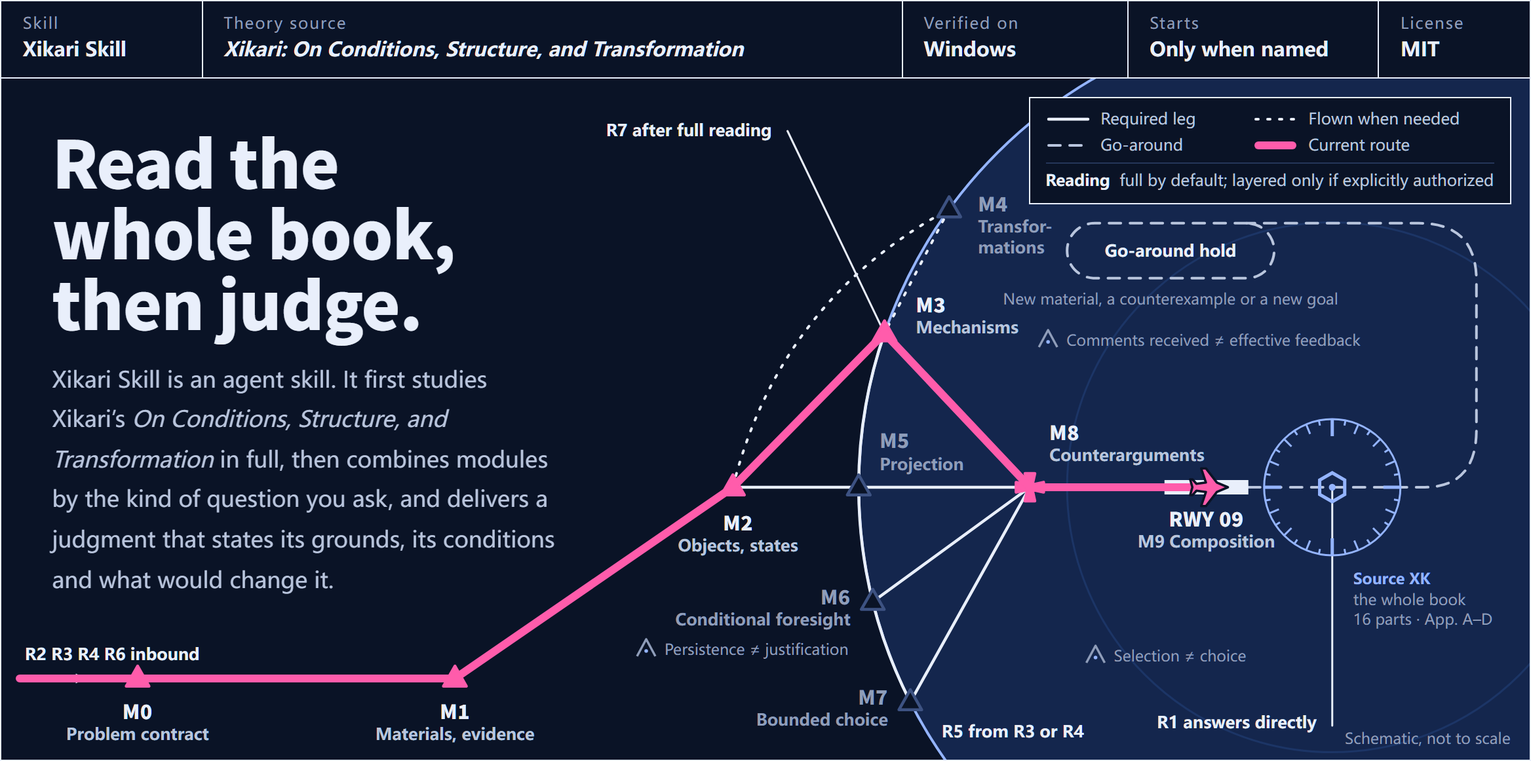
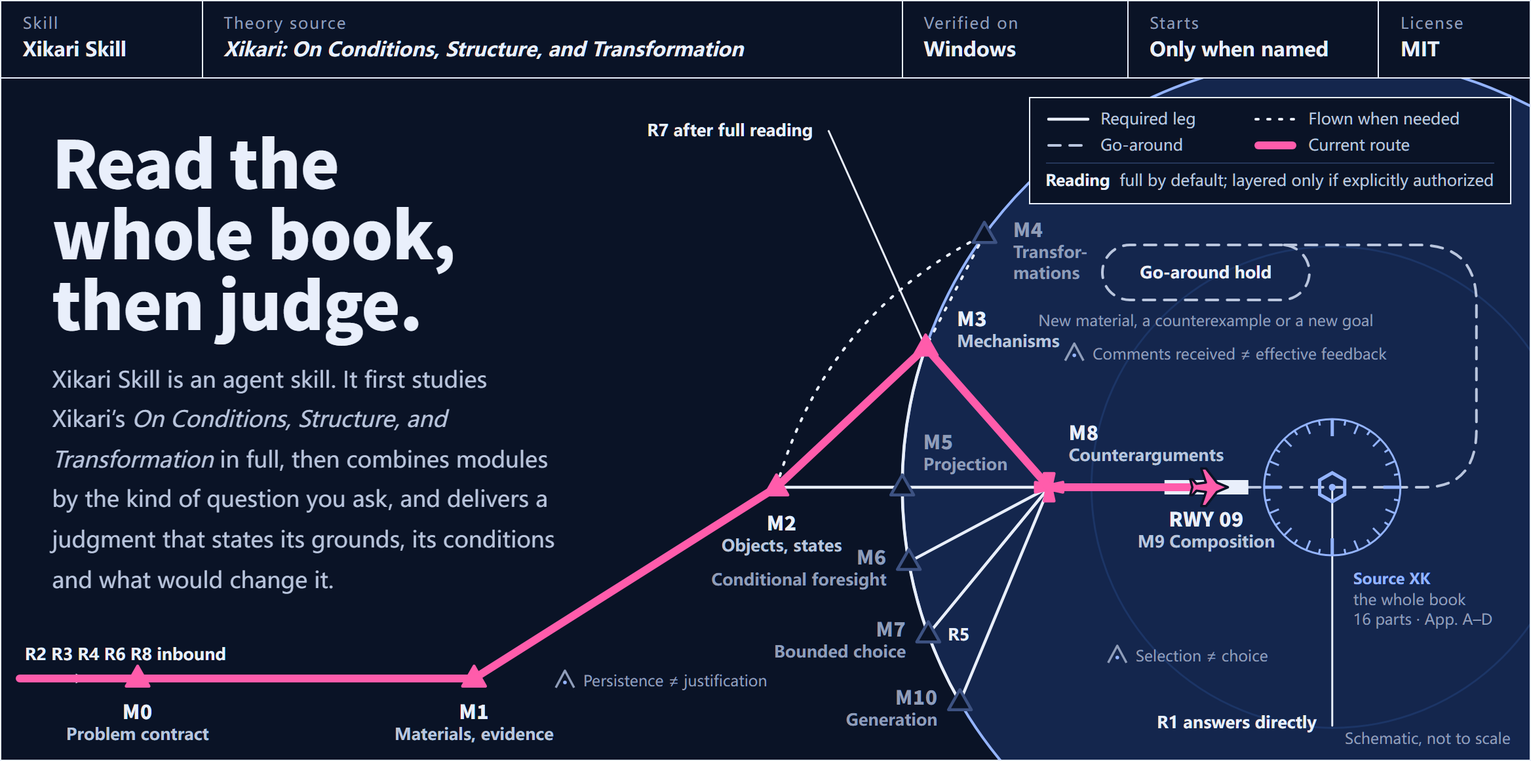
Describe generation in the READMEs and retake the figures
Both READMEs gain the eighth route, an example request and the candidate
ledger. The routes figure and the hero are retaken from their sources in both
languages and both printings, along with the social card.

diff --git a/.github/readme/src/routes.html b/.github/readme/src/routes.html
@@ -2,7 +2,7 @@
 <html lang="zh-CN">
 <head>
 <meta charset="utf-8">
-<title>README figure: seven routes, ten modules</title>
+<title>README figure: eight routes, eleven modules</title>
 <!--
   Source of .github/readme/routes-*.png. Open with ?lang=en for the English figure and
   ?theme=night for the night printing; capture.cjs photographs #figure.
@@ -44,7 +44,7 @@
   .cols > .cell { min-height: 92px; border-bottom: 1.5px solid var(--ink); }
   .cols .label { padding: 0 24px 0 28px; font-size: 15px; letter-spacing: .1em; color: var(--ink-3); }
   :root[lang="en"] .cols .label { letter-spacing: .06em; text-transform: uppercase; font-size: 14px; }
-  .mods { display: grid; grid-template-columns: repeat(10, minmax(0, 1fr)); width: 100%; align-self: stretch; border-left: 1px solid var(--rule-2); border-right: 1px solid var(--rule-2); }
+  .mods { display: grid; grid-template-columns: repeat(11, minmax(0, 1fr)); width: 100%; align-self: stretch; border-left: 1px solid var(--rule-2); border-right: 1px solid var(--rule-2); }
   /* codes share one line at the top; names hang below them */
   .mod { display: grid; align-content: start; justify-items: center; gap: 4px; padding: 14px 3px 12px; text-align: center; }
   .mod b { font-size: 22px; line-height: 1; font-weight: 900; font-variant-numeric: tabular-nums; }
@@ -106,11 +106,11 @@ document.documentElement.lang = lang === 'en' ? 'en' : 'zh-CN';
 if (query.get('theme') === 'night') document.documentElement.dataset.theme = 'night';
 
 // Column order follows the order of work: the three transformations, when needed, come before mechanisms.
-const ORDER = ['M0', 'M1', 'M2', 'M4', 'M3', 'M5', 'M6', 'M7', 'M8', 'M9'];
+const ORDER = ['M0', 'M1', 'M2', 'M4', 'M3', 'M5', 'M6', 'M7', 'M10', 'M8', 'M9'];
 // English names break where the column needs it (U+00AD is a soft hyphen).
 const MODULES = {
-  zh: { M0: '问题合同', M1: '材料证据', M2: '对象状态', M4: '三类变换', M3: '机制解释', M5: '推演', M6: '条件前瞻', M7: '有限选择', M8: '反方', M9: '成文' },
-  en: { M0: 'Problem contract', M1: 'Materials, evidence', M2: 'Objects, states', M4: 'Transformations', M3: 'Mechanisms', M5: 'Projection', M6: 'Conditional foresight', M7: 'Bounded choice', M8: 'Counterarguments', M9: 'Composition' },
+  zh: { M0: '问题合同', M1: '材料证据', M2: '对象状态', M4: '三类变换', M3: '机制解释', M5: '推演', M6: '条件前瞻', M7: '有限选择', M10: '生成', M8: '反方', M9: '成文' },
+  en: { M0: 'Problem contract', M1: 'Materials, evidence', M2: 'Objects, states', M4: 'Transformations', M3: 'Mechanisms', M5: 'Projection', M6: 'Conditional foresight', M7: 'Bounded choice', M10: 'Generation', M8: 'Counterarguments', M9: 'Composition' },
 };
 // stops: modules always passed; maybe: passed only when the question needs them; lead: how the route begins
 const ROUTES = [
@@ -134,13 +134,16 @@ const ROUTES = [
     en: ['Draft a rule for me.', 'Drafting institutions and plans', 'A draft for deliberation'] },
   { id: 'R7', stops: ['M3', 'M8', 'M9'], maybe: [], lead: 'full',
     zh: ['这套理论站得住吗？', '理论评估', '具有全书覆盖的限定评价', '全书读完后进入'],
-    en: ['Does the theory hold up?', 'Theory assessment', 'A qualified assessment covering the whole book', 'Enters after reading the whole book'] },
+    en: ['Does the theory hold up?', 'Theory assessment', 'A qualified assessment covering the whole book', 'Enters after full reading'] },
+  { id: 'R8', stops: ['M0', 'M1', 'M2', 'M10', 'M8', 'M9'], maybe: ['M3'],
+    zh: ['还能推出些什么？', '生成', '带出处与检验办法的候选'],
+    en: ['What else follows from this?', 'Generation', 'Candidates that carry their origin and a test'] },
 ];
 const TEXT = {
-  zh: { title: '七条路由 × 十个模块', sub: '你问的是哪一类问题，决定它经过哪些模块，交付哪一种判断。', ask: '你想问的', deliver: '落地交付',
+  zh: { title: '八条路由 × 十一个模块', sub: '你问的是哪一类问题，决定它经过哪些模块，交付哪一种判断。', ask: '你想问的', deliver: '落地交付',
         keyFix: '经过这个模块', keyMaybe: '需要时才经过', keyLand: '成文，交付判断',
         foot1: '<b>混合问题按真实依赖串联</b>：先问为什么、再问怎么办，就先走 R2，再接 R5。', foot2: '<b>R4</b> 的每条判断都在结果出现前登记，登记取不到时退回 R3。' },
-  en: { title: 'Seven routes, ten modules', sub: 'The kind of question decides which modules a route passes and what it delivers.', ask: 'You ask', deliver: 'It delivers',
+  en: { title: 'Eight routes, eleven modules', sub: 'The kind of question decides which modules a route passes and what it delivers.', ask: 'You ask', deliver: 'It delivers',
         keyFix: 'Passes this module', keyMaybe: 'Only when needed', keyLand: 'Composition: the judgment is delivered',
         foot1: '<b>Mixed questions chain by real dependence</b>: ask why, then what to do, and R2 runs first, then R5.', foot2: 'Every <b>R4</b> judgment is registered before the outcome; when registration is not possible, the question goes to R3 instead.' },
 };

diff --git a/README.en.md b/README.en.md
@@ -24,7 +24,7 @@
   <a href="LICENSE"><img alt="MIT License" src="https://img.shields.io/badge/license-MIT-33415E?style=flat-square"></a>
 </p>
 
-**Xikari Skill** is an agent skill. Its theory source is Xikari's *Xikari: On Conditions, Structure, and Transformation* (《Xikari-条件结构与转化论》), and it combines, question by question, source-text answers, explanation, projection, conditional foresight, bounded choice, institutional drafting and theory assessment. Ten method modules carry materials, objects, mechanisms, paths and options through to complete judgments that state their reasons and can be argued against.
+**Xikari Skill** is an agent skill. Its theory source is Xikari's *Xikari: On Conditions, Structure, and Transformation* (《Xikari-条件结构与转化论》), and it combines, question by question, source-text answers, explanation, projection, conditional foresight, bounded choice, institutional drafting, theory assessment and the generation of candidates. Eleven method modules carry materials, objects, mechanisms, paths, options and candidates through to complete judgments that state their reasons and can be argued against.
 
 It is built for questions that need both clear thinking and a decision: why an institution keeps failing, how a plan will affect different people, which of several explanations holds up, whether to keep, adjust, probe or exit now. The skill starts only when you name it and does not take over ordinary conversation.
 
@@ -50,6 +50,7 @@ The skill works in English and Chinese. Ask in English and the whole answer is i
 - **Willing to judge, and to make judgments that hold up to rebuttal.** It gathers primary or traceable material proportionate to the question and looks for the strongest competing explanations, counterexamples and objections. It separates facts, structure, mechanisms, values and authorization, gives a clear verdict and constructive proposals, and says what new facts would change them.
 - **Complete delivery, sized to the question.** The conclusion and key numbers come first. A question with a definite answer gets one or two paragraphs of grounds and conditions; a complex analysis is developed in full, and a long text is written when you ask for one. Clauses and plans are written to be used as they stand, with the explanation after them.
 - **One question can keep going.** Follow-ups, new material, counterexamples and requests for a combined draft all build on the existing work and revise from the earliest affected point instead of starting over each turn.
+- **It derives further from what is established, and says how far each step reaches.** Ask what else follows, and it works along the definitions, transformations and compositions of the source text to statements the question never asked for. Each one names its starting points and how it was reached, and whether it is a consequence that must hold within a stated model, a requirement a definition places on a claim, or a candidate still to be tested, with its strongest rival and the observation that would reject it. A restatement does not count as new, and *not found* always names the scope searched.
 
 ## Quick start
 
@@ -88,7 +89,7 @@ In the default full-reading mode the first turn includes complete study of the C
 
 <p><picture>
   <source media="(prefers-color-scheme: dark)" srcset=".github/readme/routes-en-dark.png">
-  <img alt="Seven routes against ten modules. R1 Source text and concepts: no module chain; the complete definition and its dependencies are read and the question is answered directly, delivering a bounded reading of the text. R2 Explanation and diagnosis: M0, M1, M2, then M4 when needed, then M3, M8 and M9, delivering a bounded account of the mechanism. R3 Projection: M0, M1, M2, M5, M8, M9, delivering conditional paths and distinguishing signals. R4 Conditional foresight: M0, M1, M2, M3, M5, M6, M8, M9, delivering a judgment registered before the outcome and able to fail. R5 Bounded choice: builds on a usable result of R3 or R4, then M7, M8, M9, delivering an analytical recommendation open to rebuttal. R6 Drafting institutions and plans: M0, M1, M2, M3, M7, M8, M9, with M4 and M5 when needed, delivering a draft for deliberation. R7 Theory assessment: enters after reading the whole book, then M3, M8, M9, delivering a qualified assessment covering the whole book. Below the figure: mixed questions chain by real dependence, so a question that asks why and then what to do runs R2 first, then R5; every R4 judgment is registered before the outcome, and when registration is not possible the question goes to R3 instead." src=".github/readme/routes-en-light.png" width="100%">
+  <img alt="Eight routes against eleven modules. R1 Source text and concepts: no module chain; the complete definition and its dependencies are read and the question is answered directly, delivering a bounded reading of the text. R2 Explanation and diagnosis: M0, M1, M2, then M4 when needed, then M3, M8 and M9, delivering a bounded account of the mechanism. R3 Projection: M0, M1, M2, M5, M8, M9, delivering conditional paths and distinguishing signals. R4 Conditional foresight: M0, M1, M2, M3, M5, M6, M8, M9, delivering a judgment registered before the outcome and able to fail. R5 Bounded choice: builds on a usable result of R3 or R4, then M7, M8, M9, delivering an analytical recommendation open to rebuttal. R6 Drafting institutions and plans: M0, M1, M2, M3, M7, M8, M9, with M4 and M5 when needed, delivering a draft for deliberation. R7 Theory assessment: enters after reading the whole book, then M3, M8, M9, delivering a qualified assessment covering the whole book. R8 Generation: builds on analysis already in hand, or M0, M1, M2, then M3 when needed, then M10, M8 and M9, delivering candidates that carry their origin and a test. Below the figure: mixed questions chain by real dependence, so a question that asks why and then what to do runs R2 first, then R5; every R4 judgment is registered before the outcome, and when registration is not possible the question goes to R3 instead." src=".github/readme/routes-en-light.png" width="100%">
 </picture></p>
 
 | Route | Request | How it is carried |
@@ -100,8 +101,16 @@ In the default full-reading mode the first turn includes complete study of the C
 | R5 | Bounded choice | build on an existing explanation or path and compare six kinds of options |
 | R6 | Drafting institutions and plans | give a draft for deliberation, resource arrangements and conditions for revision |
 | R7 | Theory assessment | read the whole book, then assess its relations and competing methods |
+| R8 | Generation | start from analysis already in hand and derive candidates that carry their origin and a test |
 
-The detailed order is in [routing](references/routing.md) and the [ten modules](references/forward-workflow.md) (in Chinese). Modules hand over substance; a separate handover file is saved only when collaboration, review or recovery needs it. Registration before the outcome is required for conditional foresight and must be kept. Older drafts and discussions use the earlier stage names XK0–XK11; [their mapping to modules](references/forward-workflow.md#旧工作名称的定位) (in Chinese) explains them. The skill no longer runs through those stages in order.
+The detailed order is in [routing](references/routing.md) and the [eleven modules](references/forward-workflow.md) (in Chinese). Modules hand over substance; a separate handover file is saved only when collaboration, review or recovery needs it. Registration before the outcome is required for conditional foresight and must be kept. Older drafts and discussions use the earlier stage names XK0–XK11; [their mapping to modules](references/forward-workflow.md#旧工作名称的定位) (in Chinese) explains them. The skill no longer runs through those stages in order.
+
+R8 is for the moment when the explanation is already in hand and the question is what else follows from it. It needs starting points: analysis from the same task is taken up as it stands, and without one the minimum work on materials, objects and mechanisms is done first. Every item comes back with its origin and its standing — a consequence that must hold within a stated model, a condition a claim must still meet by definition, a candidate awaiting a test, an analogy that only says where to look, a new question or a proposal — together with its strongest rival, a test and the observation that would reject it. The method is in the [generation guide](references/generation.md) (in Chinese).
+
+```text
+$xi-kari-skill Attached are six indicators from the first year of the hotline reform and the city's summary.
+No need to explain the numbers again. What follows from them that nobody has asked: conclusions, questions or ideas, above all ones that can be checked?
+```
 
 ## Conditional foresight and its limits
 
@@ -142,7 +151,7 @@ Long tasks can continue across sessions. When the session or model changes, the 
 - **Complete answer `xi-kari-answer.md`.** Produced at the first complete delivery or when you ask for a combined draft: the central judgment first, then evaluation of the material, structural relations, comparison of mechanisms, cases and counterexamples, paths, responses to objections, the verdict and the options.
 - **Offline reading page.** A single HTML file, generated from the complete draft, that makes no network connections. Under the title a track chart, drawn from the text's own counts, sets each section as a fix at its true distance; the track fills in as you read, pressing a fix goes to that section, and once the chart has scrolled away the same track stays in view under the bar. The contents list marks the current section as you read; there is full-text search, adjustable text size and a print layout; night mode follows the system and can be switched by hand; footnotes preview on hover and link back. Select a passage and “Ask about selection” turns it, with its location, into a follow-up question for you to copy back into the conversation. Formulas are typeset with the bundled KaTeX. Use `--lang en` for an English interface.
 - **Word document.** Keeps the text, tables, footnotes and local images; remote images are not downloaded but kept as visible text; anything that cannot be represented is kept as written and listed. Use `--lang en` for English labels and an English document language.
-- **Research products on demand.** A claim ledger, option comparison tables, study designs and collection notes, condition-model pages, task state across turns, a case library. They are produced when the work needs them, not as a fixed step of every analysis.
+- **Research products on demand.** A claim ledger, a candidate ledger, option comparison tables, study designs and collection notes, condition-model pages, task state across turns, a case library. They are produced when the work needs them, not as a fixed step of every analysis.
 
 ## Bundled tools
 
@@ -150,9 +159,10 @@ All tools are optional Python scripts that use only the standard library and nee
 
 | Tool | Use | Deliberately does not |
 | --- | --- | --- |
-| `read_source.py` | read the full text chunk by chunk, re-read sections by number, locate terms; `--lang en` for the English edition, `--parallel` (with `--section` or `--part`) for the Chinese and then the English text of the same range | count chunks or identity checks as reading |
+| `read_source.py` | read the full text chunk by chunk, re-read sections by number, locate terms; `--front` for the front matter alone, `--lang en` for the English edition, `--parallel` (with `--section`, `--part` or `--front`) for the Chinese and then the English text of the same range | count chunks or identity checks as reading |
 | `evidence.py` | register versions of material and keep selected excerpts with their scope of support | download from the web or judge whether material is credible |
 | `claims.py` | claim ledger: grounds, reasons, conditions for revising, open disagreements | score or decide truth |
+| `candidates.py` | candidate ledger: each candidate's starting points, move, standing, rivals and state of testing | judge whether a candidate is true or new, or let one skip testing |
 | `comparison.py` | option comparison tables as JSON, Markdown and HTML, marking facts, assumptions and unknowns; `--lang en` for English labels | rank unknowns or name an overall best option |
 | `study_design.py` | turn open questions into observations and collection plans that can tell explanations apart | fill in defaults for missing data |
 | `condition_lab.py` | run explicit formulas and constraints and export a page for switching among all computed combinations | interpolate, or present model results as feasible in reality |
@@ -174,7 +184,7 @@ python "$skillRoot/scripts/render_docx.py" "$taskRoot/xi-kari-answer.md" --outpu
 python "$skillRoot/scripts/comparison.py" "$taskRoot/compare.json" --output "$taskRoot/compare" --format all
 ```
 
-Common invocations are in [host setup and clean working directories](references/host-setup.md) (in Chinese); the commands of `manuscript.py`, `casebook.py` and `forecast.py` are in [manuscript work](references/manuscript-work.md), [the case library](references/case-library.md) and [the foresight module](modules/forecast/MODULE.md) (all in Chinese). Before creating any file, directory, lock or temporary file, every bundled tool that writes files, `forecast.py` included, refuses targets inside the skill installation directory and checks directory links and `..` paths. This is the tools' own write restriction, not an operating-system sandbox.
+Common invocations are in [host setup and clean working directories](references/host-setup.md) (in Chinese); the commands of `manuscript.py`, `casebook.py`, `candidates.py` and `forecast.py` are in [manuscript work](references/manuscript-work.md), [the case library](references/case-library.md), [the candidate ledger](references/candidate-ledger.md) and [the foresight module](modules/forecast/MODULE.md) (all in Chinese). Before creating any file, directory, lock or temporary file, every bundled tool that writes files, `forecast.py` included, refuses targets inside the skill installation directory and checks directory links and `..` paths. This is the tools' own write restriction, not an operating-system sandbox.
 
 ## Source text and reading
 
@@ -215,10 +225,10 @@ Common invocations are in [host setup and clean working directories](references/
 
 ```text
 xi-kari-skill/
-├── SKILL.md              skill entry point: reading modes and the seven routes
+├── SKILL.md              skill entry point: reading modes and the eight routes
 ├── source/               theory source and identity manifest (authoritative text)
 │   └── en/               English reference edition and its manifest
-├── modules/              ten analysis and judgment modules
+├── modules/              eleven analysis, judgment and generation modules
 ├── rules/                39 derived rule cards with source anchors
 ├── cases/                teaching demonstrations and runnable registration inputs
 ├── references/           guides: reading, modules, continuation, collaboration, tools, English

diff --git a/README.md b/README.md
@@ -24,7 +24,7 @@
   <a href="LICENSE"><img alt="MIT 许可" src="https://img.shields.io/badge/license-MIT-33415E?style=flat-square"></a>
 </p>
 
-**Xikari Skill** 是一个智能体技能（Agent Skill）。它以 Xikari 著《Xikari-条件结构与转化论》为理论来源，按问题组合原文问答、解释、推演、条件前瞻、有限选择、制度起草与理论评估。十个方法模块承接材料、对象、机制、路径与方案，形成有理由、可反驳的完整判断。
+**Xikari Skill** 是一个智能体技能（Agent Skill）。它以 Xikari 著《Xikari-条件结构与转化论》为理论来源，按问题组合原文问答、解释、推演、条件前瞻、有限选择、制度起草、理论评估与候选生成。十一个方法模块承接材料、对象、机制、路径、方案与候选，形成有理由、可反驳的完整判断。
 
 它为需要想清楚、也需要下判断的问题而设计：一项制度为什么反复失灵，一个方案会怎样影响不同的人，几种解释里哪一种站得住，现在该维持、调整、试探还是退出。技能只在你明确点名时启用，不会接管日常对话。
 
@@ -50,6 +50,7 @@
 - **敢下判断，也让判断经得起反驳。** 主动取得与问题相称的一手或可追溯材料，寻找最强的竞争解释、反例和反方；分开事实、结构、机制、价值与授权，给出明确裁决和建设性构想，并写明什么新事实会改变它。
 - **完整交付，篇幅与问题相称。** 先给结论与关键数字。确定答案的计算或判断题用一到两段说明依据和条件；复杂分析完整展开，用户需要长文时充分论证。条文和计划以可直接使用为准，解释放在条款之后。
 - **同一个问题可以一直往下做。** 追问、补材料、提反例、要求合稿，都接着已有成果推进，从最早受影响的地方修订，而不是每轮从头开始。
+- **从已有理解往下推，并说清每一步推到哪里。** 问“从这里还能推出什么”时，它沿原文的定义、变换与组合关系，推出原问没有问到的命题、问题与构想。每条写明从哪些起点、怎样得到，是给定模型里必然成立的关系、定义对一项判断的要求，还是有待检验的候选，并配上最强的竞争项和否决条件。重述不算新；“未见”只相对写明的检索范围。
 
 ## 快速开始
 
@@ -87,7 +88,7 @@
 
 <p><picture>
   <source media="(prefers-color-scheme: dark)" srcset=".github/readme/routes-dark.png">
-  <img alt="七条路由与十个模块的对照图。R1 原文与概念：不经过模块链，读完相关的完整定义与依赖后直接回答，交付有边界的释义。R2 解释与诊断：经过 M0、M1、M2，需要时经过 M4，再经过 M3、M8、M9，交付有边界的机制说明。R3 推演：经过 M0、M1、M2、M5、M8、M9，交付条件路径与区分信号。R4 条件前瞻：经过 M0、M1、M2、M3、M5、M6、M8、M9，交付结果前登记、可失败的判断。R5 有限选择：承接 R3 或 R4 的可用结果，经过 M7、M8、M9，交付可反驳的分析推荐。R6 制度与计划起草：经过 M0、M1、M2、M3、M7、M8、M9，需要时补 M4、M5，交付可审议草案。R7 理论评估：全书读完后进入 M3、M8、M9，交付具有全书覆盖的限定评价。图下注明：混合问题按真实依赖串联，先问为什么、再问怎么办，就先走 R2，再接 R5；R4 的每条判断都在结果出现前登记，登记取不到时退回 R3。" src=".github/readme/routes-light.png" width="100%">
+  <img alt="八条路由与十一个模块的对照图。R1 原文与概念：不经过模块链，读完相关的完整定义与依赖后直接回答，交付有边界的释义。R2 解释与诊断：经过 M0、M1、M2，需要时经过 M4，再经过 M3、M8、M9，交付有边界的机制说明。R3 推演：经过 M0、M1、M2、M5、M8、M9，交付条件路径与区分信号。R4 条件前瞻：经过 M0、M1、M2、M3、M5、M6、M8、M9，交付结果前登记、可失败的判断。R5 有限选择：承接 R3 或 R4 的可用结果，经过 M7、M8、M9，交付可反驳的分析推荐。R6 制度与计划起草：经过 M0、M1、M2、M3、M7、M8、M9，需要时补 M4、M5，交付可审议草案。R7 理论评估：全书读完后进入 M3、M8、M9，交付具有全书覆盖的限定评价。R8 生成：承接已有的分析，或经过 M0、M1、M2，需要时经过 M3，再经过 M10、M8、M9，交付带出处与检验办法的候选。图下注明：混合问题按真实依赖串联，先问为什么、再问怎么办，就先走 R2，再接 R5；R4 的每条判断都在结果出现前登记，登记取不到时退回 R3。" src=".github/readme/routes-light.png" width="100%">
 </picture></p>
 
 | 路由 | 请求 | 承接方式 |
@@ -99,8 +100,16 @@
 | R5 | 有限选择 | 承接已有解释或路径，比较六类方案的适用性 |
 | R6 | 制度与计划起草 | 给出可审议草案、资源安排和修改条件 |
 | R7 | 理论评估 | 全读后评价全书关系与竞争方法 |
+| R8 | 生成 | 从已有的分析出发，推出带出处与检验办法的候选 |
 
-详细顺序见[路由](references/routing.md)与[十个模块](references/forward-workflow.md)。模块交接的是实质内容；只有协作、复核或恢复需要时才单独保存交接文件。条件前瞻的结果前登记必须可保留。旧版文稿与讨论里的 XK0—XK11 是早先的阶段名，它们与模块的对应见[旧工作名称的定位](references/forward-workflow.md#旧工作名称的定位)；技能不再按这些阶段依次运行。
+详细顺序见[路由](references/routing.md)与[十一个模块](references/forward-workflow.md)。模块交接的是实质内容；只有协作、复核或恢复需要时才单独保存交接文件。条件前瞻的结果前登记必须可保留。旧版文稿与讨论里的 XK0—XK11 是早先的阶段名，它们与模块的对应见[旧工作名称的定位](references/forward-workflow.md#旧工作名称的定位)；技能不再按这些阶段依次运行。
+
+R8 用在“这些我都知道了，还能推出什么”的时候。它需要起点：同一任务里已有的分析直接承接，没有时先补最少的材料、对象与机制工作。交回的每一条都写明来路，并标明身份——给定模型里必然成立的推论、一项判断按定义还须满足的条件、有待检验的候选、只提示该查什么的类比、新问题或构想——再配上最强的竞争项、检验办法和否决条件。做法见[生成指南](references/generation.md)。
+
+```text
+$xi-kari-skill 附件是热线改革一年来的六项指标和市里的总结。
+这些数字不用再解释一遍。顺着它们还能推出什么没人问过的结论、问题或想法？尤其要能去验证的。
+```
 
 ## 条件前瞻与能力边界
 
@@ -141,7 +150,7 @@
 - **完整成果稿 `xi-kari-answer.md`。** 初次完整交付或要求合稿时形成：中心判断在前，随后是材料评价、结构关系、机制比较、案例与反例、路径、反方回应、裁决与方案。
 - **离线阅读页。** 由完整稿生成的单个 HTML 文件，不联网：标题下方有一张按正文自身统计画出的航迹图，每个章节是一个定位点，间距与篇幅成比例，读到哪里航迹就画到哪里，点一下定位点就翻到那一节，往下读时同一条航迹收在顶栏下方继续跟随；章节目录随阅读位置标出当前章节，有全文搜索、字号调节和打印版式；夜间模式默认跟随系统，也可以手动切换；脚注可以悬停预览，也可以回跳。选中一段正文，旁边会出现“追问选段”，把选段连同位置整理成一条追问，由你复制回对话。有公式时内嵌随包的 KaTeX 排版。
 - **Word 文档。** 保留正文、表格、脚注和本地图片；远程图片不会下载，而是保留为可见文字；无法表示的写法保留原文并逐项列出。
-- **按需的研究产物。** 主张台账、方案比较表、研究设计与采集说明、条件模型页、跨轮次任务状态、案例库。它们在工作需要时才生成，不是每次分析的固定流程。
+- **按需的研究产物。** 主张台账、候选账本、方案比较表、研究设计与采集说明、条件模型页、跨轮次任务状态、案例库。它们在工作需要时才生成，不是每次分析的固定流程。
 
 ## 随包工具
 
@@ -149,9 +158,10 @@
 
 | 工具 | 用途 | 刻意不做的事 |
 | --- | --- | --- |
-| `read_source.py` | 按块顺序读取全文、按节号复读、关键词定位；`--lang en`、`--parallel` 读取英文译本或中英对照 | 报告块数或核对原文身份，都不等于读过 |
+| `read_source.py` | 按块顺序读取全文、按节号复读、关键词定位；`--front` 单独读书前，`--lang en`、`--parallel` 读取英文译本或中英对照 | 报告块数或核对原文身份，都不等于读过 |
 | `evidence.py` | 登记材料版本，保存选定片段及其支持范围 | 不联网下载，不判断材料是否可信 |
 | `claims.py` | 主张台账：依据、理由、改判条件与未决分歧 | 不打分，不判定真伪 |
+| `candidates.py` | 候选账本：每条候选的起点、走法、身份、竞争项与检验状态 | 不判断候选真假与新旧，不让候选跳过检验 |
 | `comparison.py` | 方案比较表，输出 JSON、Markdown 与 HTML；事实、假设、未知分别标注；`--lang en` 输出英文标签 | 未知不参与排序，不给整体最优 |
 | `study_design.py` | 把未决问题变成能区分各解释的观察与采集说明 | 缺失保持缺失，不填默认值 |
 | `condition_lab.py` | 运行明确的公式与约束，导出可切换全部已计算组合的离散情景页 | 不插值，不把模型结果说成现实可行 |
@@ -172,7 +182,7 @@ python "$skillRoot/scripts/render_docx.py" "$taskRoot/xi-kari-answer.md" --outpu
 python "$skillRoot/scripts/comparison.py" "$taskRoot/compare.json" --output "$taskRoot/compare" --format all
 ```
 
-常用调用见[宿主接入与干净工作目录](references/host-setup.md)；`manuscript.py`、`casebook.py` 与 `forecast.py` 的命令见[稿件工作](references/manuscript-work.md)、[案例库](references/case-library.md)与[前瞻模块](modules/forecast/MODULE.md)。所有会写文件的随包工具（包括 `forecast.py`）在创建文件、目录、锁或临时文件之前，都会拒绝以技能安装目录及其子目录为目标，也会检查目录链接和 `..` 路径。这是工具自身的写入约束，不是操作系统沙箱。
+常用调用见[宿主接入与干净工作目录](references/host-setup.md)；`manuscript.py`、`casebook.py`、`candidates.py` 与 `forecast.py` 的命令见[稿件工作](references/manuscript-work.md)、[案例库](references/case-library.md)、[候选账本](references/candidate-ledger.md)与[前瞻模块](modules/forecast/MODULE.md)。所有会写文件的随包工具（包括 `forecast.py`）在创建文件、目录、锁或临时文件之前，都会拒绝以技能安装目录及其子目录为目标，也会检查目录链接和 `..` 路径。这是工具自身的写入约束，不是操作系统沙箱。
 
 ## 原文与阅读
 
@@ -214,10 +224,10 @@ python "$skillRoot/scripts/comparison.py" "$taskRoot/compare.json" --output "$ta
 
 ```text
 xi-kari-skill/
-├── SKILL.md              技能入口：阅读模式与七条问题路由
+├── SKILL.md              技能入口：阅读模式与八条问题路由
 ├── source/               理论原文与身份清单（权威文本）
 │   └── en/               英文参考译本及其身份清单
-├── modules/              十个分析与判断模块
+├── modules/              十一个分析、判断与生成模块
 ├── rules/                39 张带原文锚点的派生规则卡
 ├── cases/                教学示范及可运行登记输入
 ├── references/           方法指南：阅读、模块承接、持续对话、协作、各工具说明、英文工作与术语表

diff --git a/docs/MAINTAINING.md b/docs/MAINTAINING.md
@@ -118,7 +118,7 @@ printing:
 | --- | --- |
 | `hero-*.png` | the project page's briefing strip and plan view |
 | `hero-en-*.png` | the same view with its words set in English, for `README.en.md` |
-| `routes-*.png`, `routes-en-*.png` | the seven routes against the ten modules, drawn by `src/routes.html` |
+| `routes-*.png`, `routes-en-*.png` | the eight routes against the eleven modules, drawn by `src/routes.html` |
 | `handbook-*.png` | the station band of the handbook's home page |
 | `outputs-*.png` | the three generated pages, built by the packaged tools and framed by `src/outputs.html`; also used by the project page |
 
@@ -281,7 +281,7 @@ quotation and part titles against the manuscript, font coverage and the
 recorded asset hashes; `tests/test_project_page.py` covers each of these.
 
 On the actual published page, check desktop and mobile together: day/night
-theme, reduced motion, keyboard focus, the seven questions and each condition
+theme, reduced motion, keyboard focus, the eight questions and each condition
 switch, the flown route in the wide and the narrow plan view, the host switch,
 copy success and failure feedback, research search and empty results,
 expand/collapse, domain jumps, source links, progress labels, completion state
